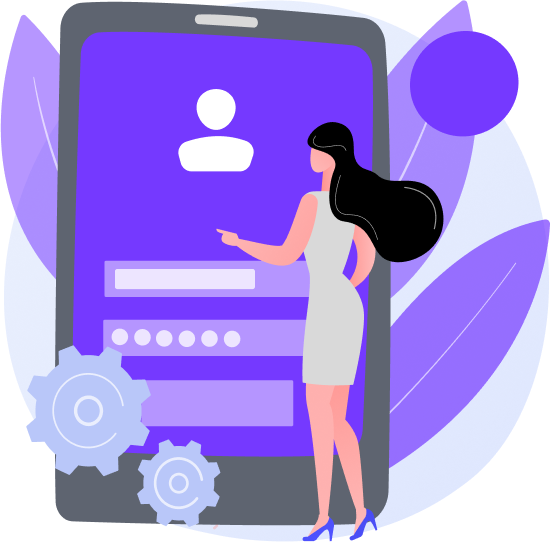
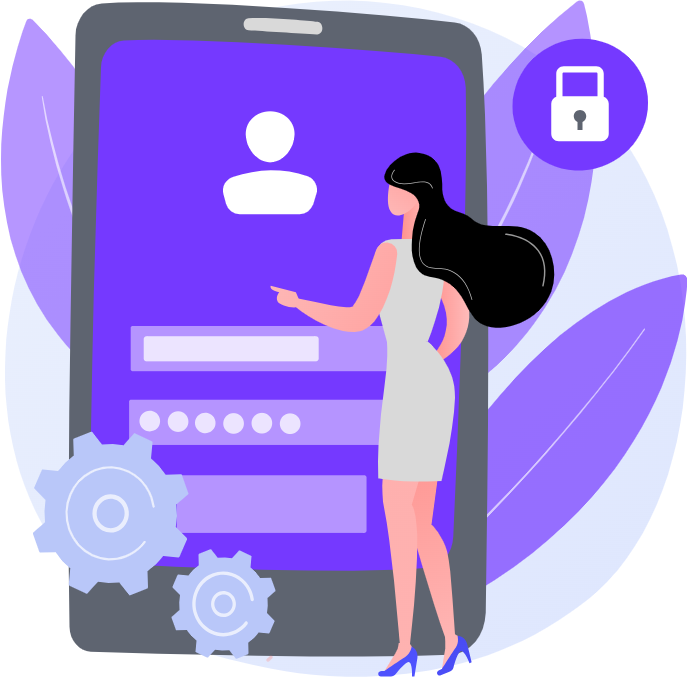
adding reset password page UI and enhancement in signup login page UI

diff --git a/Frontend/src/pages/SignupPage/SignupPage.tsx b/Frontend/src/pages/SignupPage/SignupPage.tsx
@@ -2,30 +2,31 @@ import LoginSignupLayout from "../../components/LoginSignupLayout/LoginSignupLay
 import illustration from "../../assets/images/illustration-signup-page.png";
 import { Link } from "react-router-dom";
 import { Button, FormControl, FormGroup, InputAdornment } from "@mui/material";
-import { InputBootstrapStyled } from "../../styled-components";
+import { InputBootstrapStyled } from "../../utils/styled-components";
 import EmailOutlinedIcon from "@mui/icons-material/EmailOutlined";
-import './SignupPage.css'
+import styles from "../../utils/form-styles.module.css";
+import PasswordField from "../../components/LoginSignupLayout/PasswordField";
 
 const SignupPage: React.FC = () => {
   return (
     <LoginSignupLayout image={illustration}>
-      <div className="welcome-text">
+      <div className={styles.welcomeText}>
         <h1 className="poppins-semibold">Sign Up</h1>
         <h2 className="poppins-regular">Welcome to our community</h2>
       </div>
-      <FormGroup className="form-signup">
-        <div style={{display:"flex", gap:"15px"}}>
-        <FormControl sx={{ width: "50%" }}>
-          <p className="label">First Name</p>
-          <InputBootstrapStyled fullWidth placeholder="test@exmaple.com" />
-        </FormControl>
-        <FormControl sx={{ width: "50%" }}>
-          <p className="label">Last Name</p>
-          <InputBootstrapStyled fullWidth placeholder="test@exmaple.com" />
-        </FormControl>
+      <FormGroup className={`${styles.form} ${styles.gapTen}`}>
+        <div style={{ display: "flex", gap: "15px" }}>
+          <FormControl sx={{ width: "50%" }}>
+            <p className={styles.label}>First Name</p>
+            <InputBootstrapStyled fullWidth placeholder="test@exmaple.com" />
+          </FormControl>
+          <FormControl sx={{ width: "50%" }}>
+            <p className={styles.label}>Last Name</p>
+            <InputBootstrapStyled fullWidth placeholder="test@exmaple.com" />
+          </FormControl>
         </div>
         <FormControl>
-          <p className="label">Email</p>
+          <p className={styles.label}>Email</p>
           <InputBootstrapStyled
             fullWidth
             placeholder="test@exmaple.com"
@@ -37,43 +38,24 @@ const SignupPage: React.FC = () => {
           />
         </FormControl>
         <FormControl>
-          <p className="label">Password</p>
-          <InputBootstrapStyled
-            fullWidth
-            placeholder="Enter your password"
-            endAdornment={
-              <InputAdornment position="end">
-                <EmailOutlinedIcon />
-              </InputAdornment>
-            }
-          />
+          <p className={styles.label}>Password</p>
+          <PasswordField/>
         </FormControl>
         <FormControl>
-          <p className="label">Confirm Password</p>
-          <InputBootstrapStyled
-            fullWidth
-            placeholder="Enter your password"
-            endAdornment={
-              <InputAdornment position="end">
-                <EmailOutlinedIcon />
-              </InputAdornment>
-            }
-          />
+          <p className={styles.label}>Confirm Password</p>
+          <PasswordField/>
         </FormControl>
         <FormControl>
-          <p className="label">Budget Limit</p>
-          <InputBootstrapStyled
-            fullWidth
-            placeholder="Enter Amount"
-          />
+          <p className={styles.label}>Budget Limit</p>
+          <InputBootstrapStyled fullWidth placeholder="Enter Amount" />
         </FormControl>
-    
-        <Button className="login-btn" variant="contained">
+
+        <Button className={styles.loginBtn} variant="contained">
           Sign Up
         </Button>
-        <p className="signup-line poppins-regular">
+        <p className={`${styles.signupLine} poppins-regular`}>
           Already have an account?{" "}
-          <Link className="link poppins-semibold" to="/">
+          <Link className={`${styles.link} poppins-semibold`} to="/">
             Log In
           </Link>
         </p>

diff --git a/Frontend/src/pages/ResetPswdPage/ResetPswdPage.tsx b/Frontend/src/pages/ResetPswdPage/ResetPswdPage.tsx
@@ -1,20 +1,17 @@
 import LoginSignupLayout from "../../components/LoginSignupLayout/LoginSignupLayout";
-import illustration from "../../assets/images/Illustration-login-page.png";
+import illustration from "../../assets/images/illustration-reset-pswd-page.png";
 import { Link } from "react-router-dom";
 import { InputBootstrapStyled } from "../../utils/styled-components";
 import { Button, FormControl, FormGroup, InputAdornment } from "@mui/material";
 import EmailOutlinedIcon from "@mui/icons-material/EmailOutlined";
 import styles from "../../utils/form-styles.module.css";
-import PasswordField from "../../components/LoginSignupLayout/PasswordField";
 
-const LoginPage: React.FC = () => {
+const ResetPswdPage: React.FC = () => {
   return (
     <LoginSignupLayout image={illustration}>
       <div className={styles.welcomeText}>
-        <h1 className="poppins-semibold">Welcome Back</h1>
-        <h2 className="poppins-regular">
-          Sign in to continue to Budget Tracker
-        </h2>
+        <h1 className="poppins-semibold">Reset Password</h1>
+        <h2 className="poppins-regular">Enter your email for a reset link.</h2>
       </div>
       <FormGroup className={`${styles.form} ${styles.gapTwenty}`}>
         <FormControl>
@@ -29,21 +26,9 @@ const LoginPage: React.FC = () => {
             }
           />
         </FormControl>
-        <FormControl>
-          <p className={styles.label}>Password</p>
-         <PasswordField/>
-        </FormControl>
-        <div className={styles.rememberForgetDiv}>
-          <label className={`${styles.rememberBtn} poppins-regular`}>
-            <input type="checkbox" /> Remember me{" "}
-          </label>
-          <Link className={`${styles.link} poppins-medium`} to={""}>
-            Forget Password
-          </Link>
-        </div>
 
         <Button className={styles.loginBtn} variant="contained">
-          Log In
+          Send Reset Password Link
         </Button>
         <p className={`${styles.signupLine} poppins-regular`}>
           Dont have an account?{" "}
@@ -56,4 +41,4 @@ const LoginPage: React.FC = () => {
   );
 };
 
-export default LoginPage;
+export default ResetPswdPage;

diff --git a/Frontend/src/components/LoginSignupLayout/PasswordField.tsx b/Frontend/src/components/LoginSignupLayout/PasswordField.tsx
@@ -1,0 +1,47 @@
+import { IconButton, InputAdornment } from "@mui/material";
+import { InputBootstrapStyled } from "../../utils/styled-components";
+import VisibilityOff from "@mui/icons-material/VisibilityOff";
+import { Visibility } from "@mui/icons-material";
+import { useState } from "react";
+
+const PasswordField = () => {
+  const [showPassword, setShowPassword] = useState(false);
+
+  const handleClickShowPassword = () => setShowPassword((show) => !show);
+
+  const handleMouseDownPassword = (
+    event: React.MouseEvent<HTMLButtonElement>
+  ) => {
+    event.preventDefault();
+  };
+
+  const handleMouseUpPassword = (
+    event: React.MouseEvent<HTMLButtonElement>
+  ) => {
+    event.preventDefault();
+  };
+  return (
+    <InputBootstrapStyled
+      fullWidth
+      placeholder="Enter your password"
+      type={showPassword ? "text" : "password"}
+      endAdornment={
+        <InputAdornment position="end">
+          <IconButton
+            aria-label={
+              showPassword ? "hide the password" : "display the password"
+            }
+            onClick={handleClickShowPassword}
+            onMouseDown={handleMouseDownPassword}
+            onMouseUp={handleMouseUpPassword}
+            edge="end"
+          >
+            {showPassword ? <VisibilityOff /> : <Visibility />}
+          </IconButton>
+        </InputAdornment>
+      }
+    />
+  );
+};
+
+export default PasswordField;

diff --git a/Frontend/src/components/LoginSignupLayout/LoginSignupLayout.tsx b/Frontend/src/components/LoginSignupLayout/LoginSignupLayout.tsx
@@ -1,5 +1,5 @@
-import { LoginSignupLayoutProp } from "../../types";
-import "./LoginSignupLayout.css";
+import { LoginSignupLayoutProp } from "../../utils/types";
+import styles from "./LoginSignupLayout.module.css";
 import logo from "../../assets/images/logo.png";
 
 const LoginSignupLayout: React.FC<LoginSignupLayoutProp> = ({
@@ -8,16 +8,15 @@ const LoginSignupLayout: React.FC<LoginSignupLayoutProp> = ({
 }: LoginSignupLayoutProp) => {
   return (
     <>
-    
-      <div className="layout">
-      <div className="logo">
-        <img src={logo} />
-        <h3 className="app-name poppins-semibold">Budget Tracker</h3>
-      </div>
-        <div className="form-login-layout">
-          {children}
+      <div className={styles.layout}>
+        <div className={styles.logo}>
+          <img src={logo} />
+          <h3 className={`${styles.appName} poppins-semibold`}>
+            Budget Tracker
+          </h3>
         </div>
-        <div className="illustration">
+        <div className={styles.formLoginLayout}>{children}</div>
+        <div className={styles.illustration}>
           <img src={image} />
         </div>
       </div>

diff --git a/Frontend/src/components/LoginSignupLayout/LoginSignupLayout.module.css b/Frontend/src/components/LoginSignupLayout/LoginSignupLayout.module.css
@@ -1,31 +1,35 @@
 .layout {
   display: grid;
   grid-template-columns: 50% 50%;
-  grid-template-rows: 20% 1fr;
-  padding: 0;
+  grid-template-rows: 20% 80%;
+  padding-bottom: 5%;
   width: 100%;
-  margin: auto;
+  height: 100vh;
+  margin: 0;
   box-sizing: border-box;
-  margin-bottom:5%
 }
-.form-login-layout {
+.formLoginLayout {
   width: 100%;
   box-sizing: border-box;
   padding: 0 100px;
   border-right: 1px solid #dde4f0;
   grid-column: 1;
   grid-row: 2;
+  height: 80vh;
+  display: flex;
+  flex-direction: column;
+  justify-content: center;
 }
 .logo {
   display: flex;
   gap: 10px;
-  padding: 0 100px 50px 100px;
+  padding: 0 100px 0 100px;
   align-items: center;
   grid-column: 1;
   grid-row: 1;
   border-right: 1px solid #dde4f0;
 }
-.app-name {
+.appName {
   font-size: 2.5rem;
 }
 .logo img {

diff --git a/Frontend/src/utils/form-styles.module.css b/Frontend/src/utils/form-styles.module.css
@@ -1,17 +1,12 @@
-.remember-forget-div {
+.rememberForgetDiv {
   display: flex;
   justify-content: space-between;
 }
-.form-login {
-  display: flex;
-  flex-direction: column;
-  gap: 20px;
-}
-.welcome-text h1 {
+.welcomeText h1 {
   font-size: 3.2rem;
   margin: 0;
 }
-.welcome-text h2 {
+.welcomeText h2 {
   font-size: 2.4rem;
   color: #878a99;
   margin-top: 0;
@@ -28,15 +23,28 @@
   color: #7539ff;
   font-size: 1.6rem;
 }
-.remember-btn {
+.rememberBtn {
   font-size: 1.6rem;
 }
-.login-btn {
+.loginBtn {
   font-family: "Roboto";
   font-weight: 600;
   font-size: 1.6rem !important;
 }
-.signup-line {
+.signupLine {
   font-size: 1.6rem;
   margin: auto;
+}
+.gapTen {
+  gap: 10px;
+}
+.gapTwenty {
+  gap: 20px;
+}
+.form {
+  display: flex;
+  flex-direction: column;
+}
+.form p {
+  margin: 0;
 }

diff --git a/Frontend/src/main.tsx b/Frontend/src/main.tsx
@@ -5,6 +5,7 @@ import { createBrowserRouter, RouterProvider } from "react-router-dom";
 import LoginPage from "./pages/LoginPage/LoginPage.tsx";
 import SignupPage from "./pages/SignupPage/SignupPage.tsx";
 import { createTheme, ThemeProvider } from "@mui/material";
+import ResetPswdPage from "./pages/ResetPswdPage/ResetPswdPage.tsx";
 
 const router = createBrowserRouter([
   {
@@ -14,6 +15,10 @@ const router = createBrowserRouter([
   {
     path: "/signup",
     element: <SignupPage />,
+  },
+  {
+    path: "/reset-password",
+    element: <ResetPswdPage />,
   },
 ]);
 const theme = createTheme({

diff --git a/Frontend/src/utils/styled-components.tsx b/Frontend/src/utils/styled-components.tsx
@@ -4,8 +4,8 @@ import { styled } from "@mui/material/styles";
 export const InputBootstrapStyled = styled(FilledInput)(({ theme }) => ({
   width: "100%",
   boxSizing: "border-box",
+  borderRadius: 4,
   "& .MuiInputBase-input": {
-    borderRadius: 4,
     position: "relative",
     fontSize: 16,
     padding: "10px 12px",
